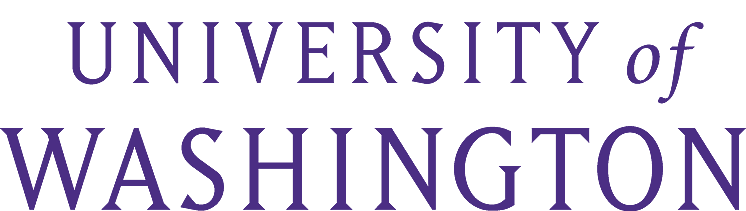
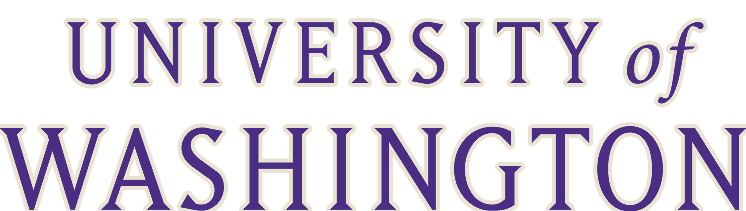
added styles for uw text

Changed region(s): [[0.0, 0.5687, 1.0, 1.0], [0.0617, 0.0853, 0.8324, 0.4265], [0.8324, 0.0853, 0.9558, 0.5118]]

diff --git a/client-app/src/App.js b/client-app/src/App.js
@@ -16,12 +16,14 @@ import ShortTermLoan from './ShortTermLoan';
 import TuitionStatement from './TuitionStatement';
 import CreditCardPayment from './CreditCardPayment';
 import logo from './assets/wlogo.png';
+import uwText from './assets/textuw.png';
 import styles from './App.css';
 
 const App = () => {
     return (
         <div>
             <img className="uw-logo" src={logo}></img>
+            <img className="uw-text" src={uwText}></img>
             <BrowserRouter>
                 <Routes>
                     <Route path="/" element={<LoginPage />} />

diff --git a/client-app/src/App.css b/client-app/src/App.css
@@ -43,3 +43,10 @@
   top: 1rem;
   left: 1rem;
 }
+
+.uw-text {
+  width: 13rem;
+  position: absolute;
+  top: 0.5rem;
+  right: 1rem;
+}
